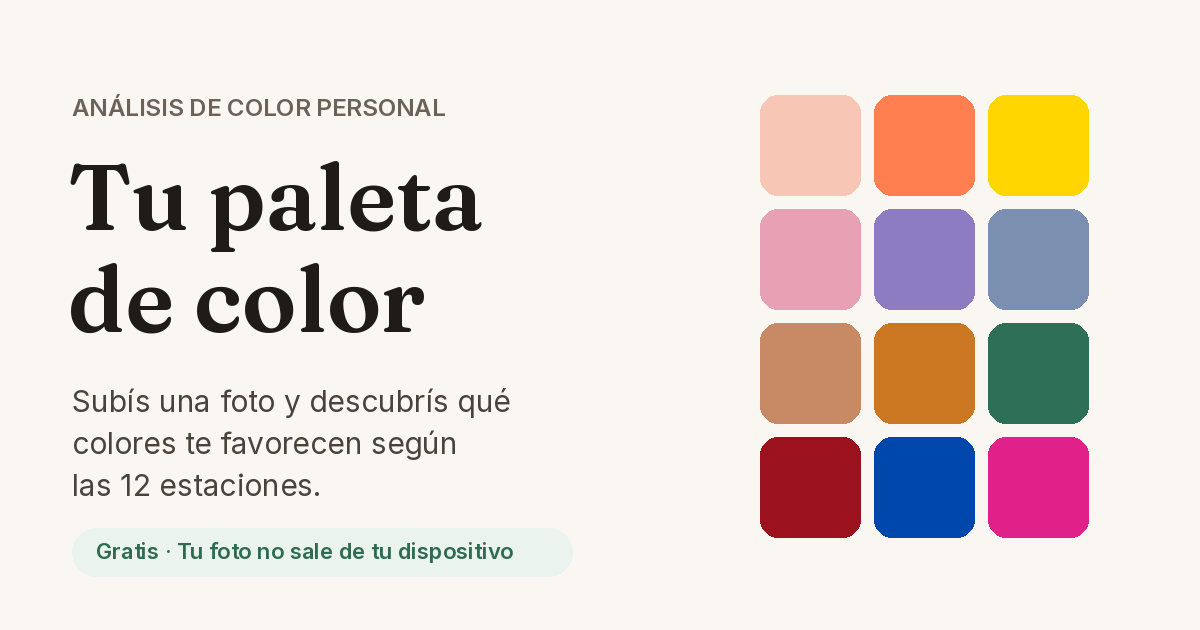
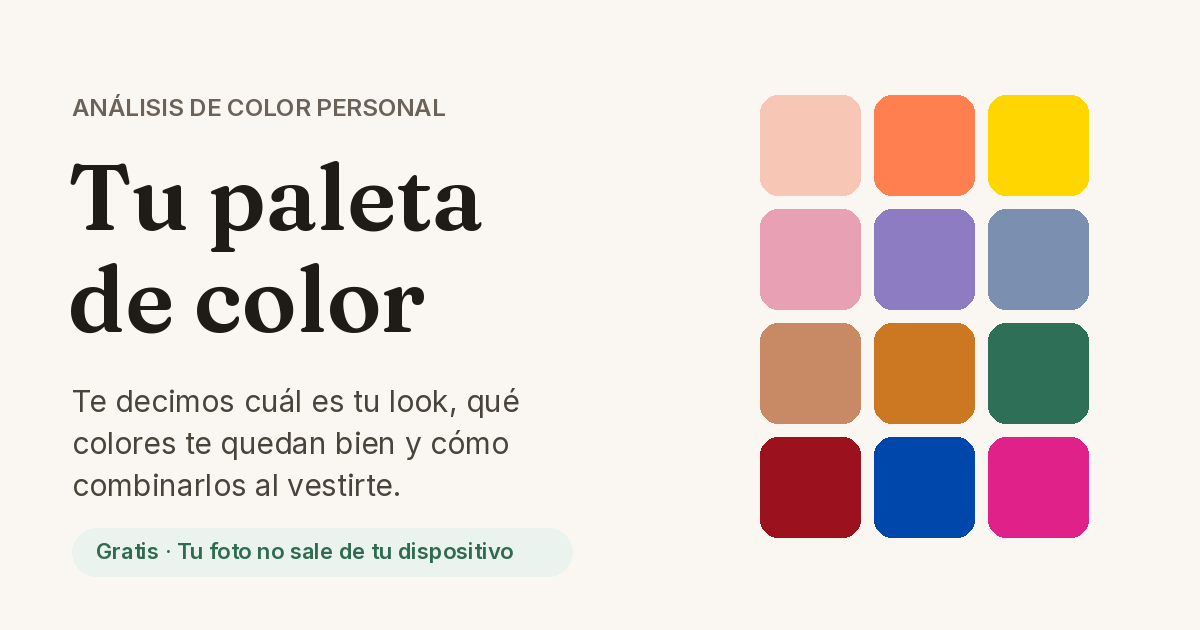
SEO orientado a looks y recomendaciones; experiencia mobile first
- Título, descripción, Open Graph, datos estructurados e imagen para compartir con el mensaje de look y recomendaciones
- Selector de puntos compacto arriba de la foto, lupa sobre el dedo al marcar en el celular
- Botón Ver mi paleta fijo abajo, botones de 44px o más, foto limitada al alto de pantalla
- Cámara o galería al subir la foto, ajustes de espaciado y grillas en pantallas chicas

Claude-Session: https://claude.ai/code/session_01FmqHNkUFw5zdet2Evv1AP2

Changed region(s): [[0.0617, 0.6032, 0.4317, 0.6635], [0.0617, 0.754, 0.3392, 0.7841], [0.185, 0.6937, 0.4317, 0.7238]]

diff --git a/index.html b/index.html
@@ -3,8 +3,8 @@
 <head>
 <meta charset="utf-8">
 <meta name="viewport" content="width=device-width, initial-scale=1">
-<title>Tu paleta de color — Análisis de color personal gratis online</title>
-<meta name="description" content="Descubrí tu estación de color (12 estaciones) con una foto: paleta personal, neutros, colores para evitar y combinaciones de ropa. Gratis, sin registro y sin guardar tu foto.">
+<title>Tu paleta de color — Descubrí tu look y qué colores te quedan bien</title>
+<meta name="description" content="Subís una foto y te decimos cuál es tu look: tu estación de color, qué colores te quedan bien y recomendaciones de ropa, combinaciones, maquillaje y looks en Pinterest. Gratis.">
 <link rel="canonical" href="https://paleta-color.vercel.app/">
 <meta name="robots" content="index, follow">
 <meta name="theme-color" content="#FAF7F2">
@@ -19,21 +19,21 @@
 <meta property="og:type" content="website">
 <meta property="og:locale" content="es_AR">
 <meta property="og:site_name" content="Tu paleta de color">
-<meta property="og:title" content="Tu paleta de color — Análisis de color personal">
-<meta property="og:description" content="Subís una foto y descubrís qué colores te favorecen según las 12 estaciones. Gratis y sin guardar datos.">
+<meta property="og:title" content="Te decimos cuál es tu look y qué colores te quedan bien">
+<meta property="og:description" content="Subís una foto, descubrís tu estación de color y recibís recomendaciones de ropa, combinaciones, maquillaje y looks para buscar en Pinterest. Gratis y sin guardar datos.">
 <meta property="og:url" content="https://paleta-color.vercel.app/">
 <meta property="og:image" content="https://paleta-color.vercel.app/og-image.png">
 <meta property="og:image:width" content="1200">
 <meta property="og:image:height" content="630">
 <meta property="og:image:alt" content="Tu paleta de color: grilla de colores de las cuatro estaciones junto al título.">
 <meta name="twitter:card" content="summary_large_image">
-<meta name="twitter:title" content="Tu paleta de color — Análisis de color personal">
-<meta name="twitter:description" content="Subís una foto y descubrís qué colores te favorecen según las 12 estaciones. Gratis y sin guardar datos.">
+<meta name="twitter:title" content="Te decimos cuál es tu look y qué colores te quedan bien">
+<meta name="twitter:description" content="Subís una foto, descubrís tu estación de color y recibís recomendaciones de ropa, combinaciones, maquillaje y looks para buscar en Pinterest. Gratis y sin guardar datos.">
 <meta name="twitter:image" content="https://paleta-color.vercel.app/og-image.png">
 <meta name="twitter:image:alt" content="Tu paleta de color: grilla de colores de las cuatro estaciones junto al título.">
 
 <script type="application/ld+json">
-{"@context":"https://schema.org","@type":"WebApplication","name":"Tu paleta de color","url":"https://paleta-color.vercel.app/","description":"Análisis de color personal según el sistema de las 12 estaciones a partir de una foto, procesado en el navegador.","applicationCategory":"LifestyleApplication","operatingSystem":"Cualquiera (navegador web)","inLanguage":"es-AR","isAccessibleForFree":true,"offers":{"@type":"Offer","price":"0","priceCurrency":"ARS"},"author":{"@type":"Person","name":"Mapa Bianchi","url":"https://mapabianchi.online"}}
+{"@context":"https://schema.org","@type":"WebApplication","name":"Tu paleta de color","url":"https://paleta-color.vercel.app/","description":"Te decimos cuál es tu look a partir de una foto: tu estación de color según el sistema de las 12 estaciones, los colores que te quedan bien y recomendaciones de ropa, maquillaje y looks. Todo se procesa en el navegador.","featureList":["Análisis de color personal con una foto","Estación de color entre las 12 estaciones","Paleta personal, neutros y colores para evitar","Recomendaciones de ropa, combinaciones y accesorios","Búsquedas de looks en Pinterest según tu estación","Descarga del resultado en PDF"],"applicationCategory":"LifestyleApplication","operatingSystem":"Cualquiera (navegador web)","inLanguage":"es-AR","isAccessibleForFree":true,"offers":{"@type":"Offer","price":"0","priceCurrency":"ARS"},"author":{"@type":"Person","name":"Mapa Bianchi","url":"https://mapabianchi.online"}}
 </script>
 <link rel="preconnect" href="https://fonts.googleapis.com">
 <link rel="preconnect" href="https://fonts.gstatic.com" crossorigin>
@@ -73,17 +73,19 @@
   .tip b{display:block;margin-bottom:2px}
   .grid2{display:grid;grid-template-columns:minmax(0,1.2fr) minmax(0,1fr);gap:24px;align-items:start}
   @media (max-width:820px){.grid2{grid-template-columns:1fr}}
-  .photo{position:relative;border-radius:12px;overflow:hidden;background:#EEE;touch-action:none}
-  .photo canvas#view{display:block;width:100%;height:auto;cursor:crosshair}
+  .photo{position:relative;touch-action:none}
+  .photo{display:flex;justify-content:center}
+  .photo canvas#view{display:block;max-width:100%;max-height:62vh;width:auto;height:auto;cursor:crosshair;border-radius:12px;background:#EEE}
   #loupe{position:absolute;width:120px;height:120px;border-radius:50%;border:3px solid #fff;box-shadow:0 2px 10px rgba(0,0,0,.35);pointer-events:none;display:none}
-  .targets{display:grid;gap:8px;margin:12px 0 20px}
-  .target{display:grid;grid-template-columns:36px 1fr auto;gap:12px;align-items:center;text-align:left;width:100%;border:1px solid var(--line);background:var(--surface);border-radius:12px;padding:10px 12px;cursor:pointer;font:inherit;color:inherit}
-  .target.active{border-color:var(--accent);background:var(--accent-soft)}
-  .target .dot{width:36px;height:36px;border-radius:50%;border:1px dashed #B9AFA4;background:repeating-linear-gradient(45deg,#f4f0ea 0 4px,#fff 4px 8px)}
+  .targets{display:grid;grid-template-columns:1fr 1fr;gap:8px;margin:12px 0 6px}
+  .target{display:flex;gap:10px;align-items:center;text-align:left;width:100%;min-height:52px;border:1px solid var(--line);background:var(--surface);border-radius:12px;padding:8px 10px;cursor:pointer;font:inherit;color:inherit}
+  .target.active{border-color:var(--accent);background:var(--accent-soft);box-shadow:inset 0 0 0 1px var(--accent)}
+  .target .dot{flex:none;width:30px;height:30px;border-radius:50%;border:1px dashed #B9AFA4;background:repeating-linear-gradient(45deg,#f4f0ea 0 4px,#fff 4px 8px)}
   .target .dot.set{border:1px solid rgba(0,0,0,.15);background:none}
-  .target small{display:block;color:var(--muted);font-size:.82rem;line-height:1.35}
-  .target .state{font-size:.8rem;color:var(--muted)}
-  .target.active .state{color:var(--accent);font-weight:600}
+  .target strong{display:block;font-size:.95rem;line-height:1.2}
+  .target small{display:block;color:var(--muted);font-size:.78rem;line-height:1.2}
+  .target.active small{color:var(--accent);font-weight:600}
+  .target-hint{font-size:.88rem;color:var(--ink);background:var(--bg);border-radius:10px;padding:8px 12px;margin:0 0 10px}
   .q{margin-bottom:16px}
   .q p{margin:0 0 6px;font-weight:500;font-size:.95rem}
   .seg{display:flex;flex-wrap:wrap;gap:6px}
@@ -133,6 +135,27 @@
   .hidden{display:none !important}
   .toast{position:fixed;left:50%;bottom:24px;transform:translateX(-50%);background:var(--ink);color:#fff;padding:10px 18px;border-radius:999px;font-size:.9rem;opacity:0;transition:opacity .2s;pointer-events:none}
   .toast.show{opacity:1}
+  .sticky-cta{position:sticky;bottom:0;z-index:5;background:var(--surface);margin:16px -24px -24px;padding:12px 24px calc(12px + env(safe-area-inset-bottom));border-top:1px solid var(--line);border-radius:0 0 var(--radius) var(--radius)}
+  .seg button,.chip{min-height:44px}
+  .btn{min-height:48px}
+  dialog#privacy{max-height:90vh;overflow:auto}
+  @media (max-width:640px){
+    .wrap{padding:20px 14px 48px}
+    .card{padding:18px;border-radius:14px}
+    .sticky-cta{margin:16px -18px -18px;padding:12px 18px calc(12px + env(safe-area-inset-bottom))}
+    .sticky-cta .btn{flex:1}
+    .lead{font-size:1rem}
+    .tips{grid-template-columns:1fr 1fr;gap:8px}
+    .tip{padding:10px;font-size:.85rem}
+    .swatches{grid-template-columns:repeat(3,1fr);gap:8px}
+    .result-head .actions{width:100%}
+    .result-head .actions .btn{flex:1;padding:8px 10px;font-size:.88rem}
+    .save .btn{width:100%}
+    .modal{padding:22px}
+    .toast{bottom:96px}
+    .drop{padding:32px 16px}
+    .privacy{display:block;border-radius:12px;font-size:.85rem}
+  }
   dialog#privacy{border:none;border-radius:20px;padding:0;max-width:560px;width:calc(100% - 32px);box-shadow:0 20px 60px rgba(31,27,22,.25);color:var(--ink)}
   dialog#privacy::backdrop{background:rgba(31,27,22,.45)}
   .modal{padding:28px}
@@ -157,7 +180,7 @@
   <header class="hero">
     <span class="privacy">🔒 Tu foto no sale de este dispositivo. <button type="button" class="linkbtn" id="openPrivacy">Cómo cuidamos tus datos</button></span>
     <h1>Tu paleta de color</h1>
-    <p class="lead">Un análisis de color personal según el sistema de las 12 estaciones. Con una foto y tres toques sobre tu piel, tus ojos y tu pelo, te mostramos qué colores te favorecen y cómo combinarlos al vestirte.</p>
+    <p class="lead">Te decimos cuál es tu look. Con una foto y tres toques sobre tu piel, tus ojos y tu pelo, descubrís tu estación de color y recibís recomendaciones: qué colores te quedan bien, cómo combinarlos al vestirte, maquillaje, accesorios y looks para buscar en Pinterest.</p>
   </header>
 
   <ol class="steps" id="steps" aria-label="Pasos">
@@ -168,11 +191,11 @@
 
   <section class="card" id="s1" aria-labelledby="s1t">
     <h2 id="s1t">Elegir una foto</h2>
-    <p class="hint">JPG o PNG. Una selfie de frente sirve.</p>
+    <p class="hint">Una selfie de frente sirve. Podés sacarla en el momento o elegirla de tu galería.</p>
     <label class="drop" id="drop">
-      <input type="file" id="file" accept="image/jpeg,image/png,image/webp">
+      <input type="file" id="file" accept="image/*">
       <span style="font-size:2rem" aria-hidden="true">📷</span>
-      <strong>Subir o arrastrar una foto</strong>
+      <strong>Sacar o elegir una foto</strong>
       <span class="hint">Se procesa en tu navegador y se borra al cerrar la página.</span>
     </label>
     <p id="fileErr" class="hint" role="alert" style="color:#A3342B"></p>
@@ -185,22 +208,21 @@
   </section>
 
   <section class="card hidden" id="s2" aria-labelledby="s2t">
+    <h2 id="s2t">Marcar tus colores</h2>
+    <p class="hint">Elegís qué medir y tocás ese punto en la foto. En el celular podés apoyar el dedo, moverlo mirando la lupa y soltarlo donde quieras medir.</p>
     <div class="grid2">
       <div>
+        <div class="targets" id="targets" role="group" aria-label="Qué medir"></div>
+        <p class="target-hint" id="targetHint" aria-live="polite"></p>
         <div class="photo" id="photo">
           <canvas id="view" aria-label="Tu foto. Tocá sobre ella para tomar el color seleccionado."></canvas>
           <canvas id="loupe" width="120" height="120" aria-hidden="true"></canvas>
         </div>
         <div class="actions" style="margin-top:12px">
           <button class="btn ghost" id="changePhoto" type="button">Cambiar foto</button>
-          <span class="hint">La lupa ayuda a apuntar con precisión.</span>
         </div>
       </div>
-      <div>
-        <h2 id="s2t">Marcar tus colores</h2>
-        <p class="hint">Elegí qué querés medir y tocá ese punto en la foto.</p>
-        <div class="targets" id="targets"></div>
-
+      <div class="questions">
         <h3>Unas preguntas rápidas <span class="hint" style="font-family:Inter;font-weight:400">(opcionales, mejoran el resultado)</span></h3>
         <div class="q" data-q="veins">
           <p>Las venas de tu muñeca se ven…</p>
@@ -238,11 +260,11 @@
           </div>
         </div>
 
-        <div class="actions">
-          <button class="btn" id="analyze" type="button" disabled>Ver mi paleta</button>
-          <span class="hint" id="missing" aria-live="polite"></span>
-        </div>
       </div>
+    </div>
+    <div class="actions sticky-cta">
+      <button class="btn" id="analyze" type="button" disabled>Ver mi paleta</button>
+      <span class="hint" id="missing" aria-live="polite"></span>
     </div>
   </section>
 

diff --git a/app.js b/app.js
@@ -109,7 +109,7 @@ const TARGETS = [
   {id:"skin",  label:"Piel", hint:"Mejilla o frente, sin brillo ni sombra.", r:0.006},
   {id:"eyes",  label:"Ojos", hint:"El iris, lejos de la pupila y del reflejo de luz.", r:0.0018},
   {id:"hair",  label:"Pelo", hint:"Un mechón con luz pareja, mejor cerca de la raíz.", r:0.007},
-  {id:"white", label:"Algo blanco (opcional)", hint:"Remera, hoja o pared. Corrige el color de la luz.", r:0.006}
+  {id:"white", label:"Blanco", opt:true, hint:"Remera, hoja o pared. Corrige el color de la luz.", r:0.006}
 ];
 
 /* ---------- Estado ---------- */
@@ -201,7 +201,7 @@ function sampleAt(x,y,rad){
   return [med(R),med(G),med(B)];
 }
 
-view.addEventListener("pointermove",ev=>{
+function showLoupe(ev){
   if(!S.work) return;
   const c=imgCoords(ev), z=8, src=120/z;
   lctx.imageSmoothingEnabled=false;
@@ -211,14 +211,18 @@ view.addEventListener("pointermove",ev=>{
   lctx.strokeStyle="#fff"; lctx.lineWidth=2; lctx.beginPath(); lctx.arc(60,60,Math.min(rr,56),0,Math.PI*2); lctx.stroke();
   lctx.strokeStyle="rgba(0,0,0,.6)"; lctx.lineWidth=1; lctx.beginPath(); lctx.moveTo(60,52);lctx.lineTo(60,68);lctx.moveTo(52,60);lctx.lineTo(68,60);lctx.stroke();
   let lx=c.px+18, ly=c.py-138;
-  if(lx+120>c.rw) lx=c.px-138; if(ly<0) ly=c.py+18;
-  loupe.style.left=lx+"px"; loupe.style.top=ly+"px"; loupe.style.display="block";
-});
+  if(lx+120>c.rw) lx=c.px-138; if(ev.pointerType!=="mouse"){ lx=c.px-60; ly=c.py-150; } if(ly<0) ly=c.py+40;
+  loupe.style.left=(lx+view.offsetLeft)+"px"; loupe.style.top=ly+"px"; loupe.style.display="block";
+}
+view.addEventListener("pointermove",showLoupe);
+view.addEventListener("pointerdown",ev=>{ showLoupe(ev); if(ev.pointerType!=="mouse") view.setPointerCapture(ev.pointerId); });
 view.addEventListener("pointerleave",()=>loupe.style.display="none");
+view.addEventListener("pointercancel",()=>loupe.style.display="none");
 view.addEventListener("pointerup",ev=>{
   if(!S.work) return;
   if(ev.pointerType!=="mouse") loupe.style.display="none";
   const c=imgCoords(ev), id=S.active;
+  c.x=clamp(c.x,0,S.W-1); c.y=clamp(c.y,0,S.H-1);
   S.pts[id]={x:c.x,y:c.y};
   S.rgb[id]=sampleAt(c.x,c.y,radiusFor(id));
   const next=["skin","eyes","hair"].find(k=>!S.pts[k] && !(k==="hair" && S.dyed==="no"));
@@ -232,14 +236,14 @@ function renderTargets(){
   TARGETS.forEach(t=>{
     const b=document.createElement("button"); b.type="button"; b.className="target"+(S.active===t.id?" active":"");
     b.setAttribute("aria-pressed",S.active===t.id);
-    const set=!!S.rgb[t.id];
-    const skipHair = t.id==="hair" && S.dyed==="no";
-    b.innerHTML=`<span class="dot${set?" set":""}" style="${set?"background:"+hex(S.rgb[t.id]):""}"></span>
-      <span><strong>${t.label}</strong><small>${skipHair?"No hace falta: usamos tu color natural.":t.hint}</small></span>
-      <span class="state">${S.active===t.id?"Tocá la foto":(set?"Listo ✓":"")}</span>`;
+    const set=!!S.rgb[t.id], skipHair=t.id==="hair" && S.dyed==="no";
+    const state= S.active===t.id ? "Midiendo ahora" : set ? "Listo ✓" : skipHair ? "No hace falta" : (t.opt?"Opcional":"Falta");
+    b.innerHTML=`<span class="dot${set?" set":""}" style="${set?"background:"+hex(S.rgb[t.id]):""}"></span><span><strong>${t.label}</strong><small>${state}</small></span>`;
     b.addEventListener("click",()=>{ S.active=t.id; renderTargets(); });
     box.appendChild(b);
   });
+  const t=TARGETS.find(x=>x.id===S.active);
+  $("targetHint").innerHTML=`<b>${t.label}${t.opt?" (opcional)":""}:</b> ${t.id==="hair"&&S.dyed==="no"?"No hace falta: usamos tu color natural.":t.hint}`;
 }
 
 /* Preguntas */
